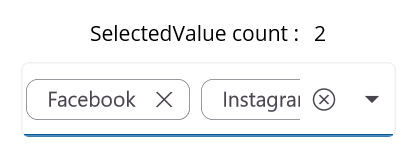
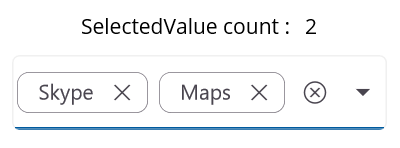
Selectedvalue image updated

diff --git a/MAUI/ComboBox/Selection.md b/MAUI/ComboBox/Selection.md
@@ -305,8 +305,8 @@ public ObservableCollection<object> SelectedValueList { get; set; }
 SocialMediaViewModel socialMediaViewModel = (this.comboBox.BindingContext as SocialMediaViewModel);
 ObservableCollection<SocialMedia> socialMediasList = socialMediaViewModel.SocialMedias;
 SelectedValueList = new ObservableCollection<object>();
-SelectedValueList.Add(socialMediasList[0].ID);
-SelectedValueList.Add(socialMediasList[2].ID);
+SelectedValueList.Add(socialMediasList[4].ID);
+SelectedValueList.Add(socialMediasList[6].ID);
 comboBox.SelectedValuePath = "ID";
 comboBox.SelectionChanged += OnSelectionChanged;
   

diff --git a/MAUI/Autocomplete/Selection.md b/MAUI/Autocomplete/Selection.md
@@ -317,7 +317,7 @@ SocialMediaViewModel socialMediaViewModel = (this.autocomplete.BindingContext as
 ObservableCollection<SocialMedia> socialMediasList = socialMediaViewModel.SocialMedias;
 SelectedValueList = new ObservableCollection<object>();
 SelectedValueList.Add(socialMediasList[0].ID);
-SelectedValueList.Add(socialMediasList[2].ID);
+SelectedValueList.Add(socialMediasList[4].ID);
 autocomplete.SelectedValuePath = "ID";
 autocomplete.SelectionChanged += OnSelectionChanged;
   
